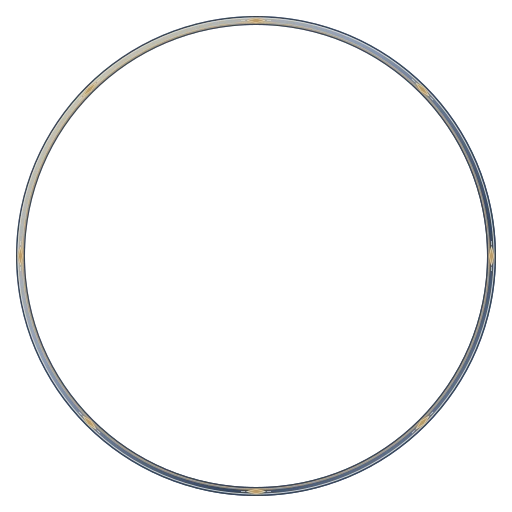
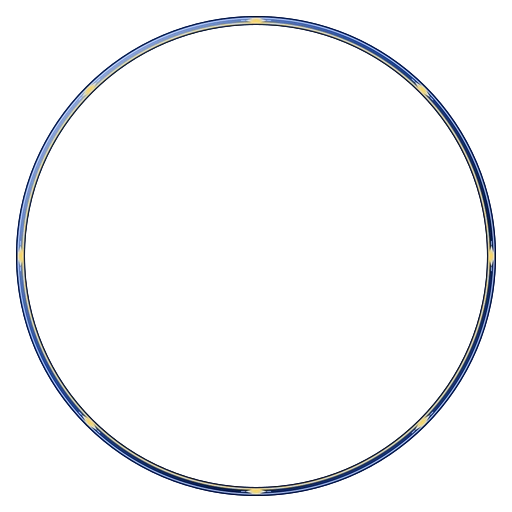
Add ornate title profile frames and richer arena rim colors

Changed region(s): [[0.0312, 0.0312, 0.9688, 0.9688]]

diff --git a/games/heroes-of-ether/public/shared/league-appearance.js b/games/heroes-of-ether/public/shared/league-appearance.js
@@ -123,10 +123,10 @@
     }),
   );
   const packFrames = [
-    ["visual", "#dbad4b", "#fff1c1", "#243c68", [0.490234,0.521484,0.350813]],
-    ["prism", "#95dafa", "#fcf4dd", "#253c89", [0.494141,0.525391,0.375227]],
-    ["glass", "#dbbfea", "#fff5ff", "#66578d", [0.496094,0.542969,0.356294]],
-    ["heroic", "#ecc35c", "#fff0bf", "#851f37", [0.491211,0.527344,0.346827]],
+    ["visual", "#f5b322", "#fff0a3", "#8e3010", [0.490234,0.521484,0.350813]],
+    ["prism", "#29a9f5", "#ddfaff", "#174d9f", [0.494141,0.525391,0.375227]],
+    ["glass", "#ad6ee9", "#f4dbff", "#582188", [0.496094,0.542969,0.356294]],
+    ["heroic", "#ffbe16", "#fff09a", "#9d102c", [0.491211,0.527344,0.346827]],
   ].map(([id, metal, light, dark, fit]) => Object.freeze({ ...interfaceTheme(id), metal, light, dark, fit, rank: 3 }));
   const variantFrames = Object.freeze([{"id":"canon_title_prince","baseId":"title_prince","name":"Принц","title":"Тонкий ободок","fit":[0.5,0.5,0.4521484375]},{"id":"canon_title_king","baseId":"title_king","name":"Король","title":"Тонкий ободок","fit":[0.5,0.5,0.4521484375]},{"id":"canon_title_emperor","baseId":"title_emperor","name":"Император","title":"Тонкий ободок","fit":[0.5,0.5,0.4521484375]},{"id":"canon_vip","baseId":"vip","name":"VIP","title":"Тонкий ободок","fit":[0.5,0.5,0.4521484375]},{"id":"canon_premium","baseId":"premium","name":"Premium","title":"Тонкий ободок","fit":[0.5,0.5,0.4521484375]},{"id":"canon_bronze","baseId":"bronze","name":"Бронзовая","title":"Тонкий ободок","fit":[0.5,0.5,0.4521484375]},{"id":"canon_silver","baseId":"silver","name":"Серебряная","title":"Тонкий ободок","fit":[0.5,0.5,0.4521484375]},{"id":"canon_gold","baseId":"gold","name":"Золотая","title":"Тонкий ободок","fit":[0.5,0.5,0.4521484375]},{"id":"canon_platinum","baseId":"platinum","name":"Платиновая","title":"Тонкий ободок","fit":[0.5,0.5,0.4521484375]},{"id":"canon_diamond","baseId":"diamond","name":"Бриллиантовая","title":"Тонкий ободок","fit":[0.5,0.5,0.4521484375]},{"id":"canon_champions","baseId":"champions","name":"Чемпионская","title":"Тонкий ободок","fit":[0.5,0.5,0.4521484375]}].map(Object.freeze));
   const variantsById = new Map(variantFrames.map(item => [item.id,item]));
@@ -137,6 +137,12 @@
     : slot === "arenaFrame" ? arenaVariants.get(baseFrame(id)) || id : id;
   const framesById = new Map([...frameThemes, ...rankFrames, ...packFrames, ...variantFrames].map((item) => [item.id, item]));
   const frameTheme = (id) => framesById.get(id);
+  // Profile ornaments have independent measured fits; arena rim geometry is unchanged.
+  const titleProfileFits = {"title_novice":[0.4960802520498726,0.5350580501666561,0.3615369592813202],"title_experienced":[0.4984100202013826,0.5294213618990071,0.3489242586986948],"title_expert":[0.49641071231311545,0.5239693433811239,0.35095856524427954],"title_sage":[0.4947862253890017,0.5175578148157163,0.34607622953487616],"title_master":[0.49566221112560566,0.5231587107258937,0.3346841128796016],"title_pro":[0.496427334693173,0.5198926838020498,0.3354978354978355],"title_prince":[0.49636518686513004,0.5231052472625249,0.3513654265533965],"title_king":[0.49561820955446556,0.5283429706013979,0.32614002538814574],"title_emperor":[0.4931919062966485,0.5306584799346615,0.3322429450248999],"title_boss":[0.49402483121063484,0.5250226946402605,0.32939491586108127]};
+  const titleProfileFrame = (id) => {
+    const base = baseFrame(id), fit = titleProfileFits[base];
+    return fit ? { fit, source: `assets/frames/titles-v4/512/${base.slice(6)}.webp?art=20261123-title-frames` } : null;
+  };
   const valid = (id, slot) =>
     id === "default" ||
     !!theme(id) ||
@@ -152,14 +158,14 @@
   const resolveFrame = (id) => (theme(id) || accountFrame(id) || rankFrame(id) || interfaceTheme(id) || variantFrame(id) ? id : "default");
   const source = (id, kind) =>
     kind === "frame" && !!(variantFrame(id) || rankFrame(id) || theme(id) || accountFrame(id))
-      ? `assets/frames/rims-v2/${id}.webp?art=20261123-interface-art`
+      ? `assets/frames/rims-v2/${id}.webp?art=20261123-title-frames`
         : interfaceTheme(id) && ["frame", "profile", "lobby"].includes(kind)
           ? `assets/interface-packs/${id}/${kind}.webp?art=${kind === "frame" ? "20261122c" : "20261122b"}`
           : theme(id) && ["lobby", "profile", "frame", "clan"].includes(kind)
             ? `assets/league-appearance/${id}-${kind}.svg?art=20261123-interface-art`
             : null;
   return {
-    variantFrames, variantFrame, baseFrame, frameForSlot,
+    titleProfileFrame, variantFrames, variantFrame, baseFrame, frameForSlot,
     themes,
     interfaceThemes,
     interfaceTheme,

diff --git a/games/heroes-of-ether/public/index.html b/games/heroes-of-ether/public/index.html
@@ -2,7 +2,7 @@
 <html lang="ru" class="game-booting">
   <head>
     <script src="shared/browser-abort-compat.js?v=20261123-interface-art"></script>
-    <script src="shared/art-revision.js?v=20261123-interface-art"></script>
+    <script src="shared/art-revision.js?v=20261123-title-frames"></script>
     <meta charset="utf-8" />
     <meta name="viewport" content="width=device-width, initial-scale=1, viewport-fit=cover" />
     <meta name="theme-color" content="#101321" />
@@ -651,7 +651,7 @@
     <script src="ui/progression/greatness-label.js?v=20261123-interface-art"></script>
     <script src="shared/skin-collection-preview.js?v=20261123-interface-art"></script>
     <script src="shared/player-identity.js?v=20261123-interface-art"></script>
-    <script src="shared/league-appearance.js?v=20261123-interface-art"></script>
+    <script src="shared/league-appearance.js?v=20261123-title-frames"></script>
     <script src="shared/lobby-menu-art.js?v=20261123-interface-art"></script>
     <script src="shared/interface-theme.js?v=20261123-interface-art"></script>
     <script src="shared/accessory-catalog.js?v=20261123-interface-art"></script>
@@ -685,7 +685,7 @@
     <script src="ui/shop/currency-purchase-dialog.js?v=20261123-interface-art"></script>
     <script src="shared/booster-cooldowns.js?v=20261123-interface-art"></script>
     <script src="ui/cosmetics/skin-and-wardrobe-dialogs.js?v=20261123-interface-art"></script>
-    <script src="ui/cosmetics/league-appearance.js?v=20261123-interface-art"></script>
+    <script src="ui/cosmetics/league-appearance.js?v=20261123-title-frames"></script>
     <script src="ui/lobby/sky-scene.js?v=20261123-interface-art"></script>
     <script src="shared/quick-slot-rules.js?v=20261123-interface-art"></script>
     <script src="ui/boosters/booster-tooltip.js?v=20261123-interface-art"></script>
@@ -723,7 +723,7 @@
     <script src="shared/arena-backgrounds.js?v=20261123-interface-art"></script>
     <script src="shared/projectile-renderer.js?v=20261123-interface-art"></script>
     <script src="shared/booster-effect-renderer.js?v=20261123-interface-art"></script>
-    <script src="arena/food-and-frame-renderer.js?v=20261123-interface-art"></script>
+    <script src="arena/food-and-frame-renderer.js?v=20261123-title-frames"></script>
     <script src="arena/body-renderer.js?v=20261123-interface-art"></script>
     <script src="arena/portrait-loader.js?v=20261123-interface-art"></script>
     <script src="ui/profile/online-presence.js?v=20261123-interface-art"></script>

diff --git a/games/heroes-of-ether/public/arena/food-and-frame-renderer.js b/games/heroes-of-ether/public/arena/food-and-frame-renderer.js
@@ -341,7 +341,7 @@
     ctx.stroke();
   }
   // Native circles reproduce the approved rims without asynchronous texture swaps.
-  const preparedRimColors = {"vip":["#a56a24","#dba64b","#f2d18a","#b77725"],"premium":["#655175","#a07abb","#d7b7df","#c5a564"],"bronze":["#714c36","#b77d50","#d8b190","#8c5838"],"silver":["#5d6c7a","#a9bac7","#dde5e8","#82929d"],"gold":["#8b7145","#c9ad74","#ead7ab","#b6975d"],"platinum":["#496c70","#9fbfb9","#d6e5da","#81a5a4"],"diamond":["#4c819c","#99cbdc","#d4ebef","#81adc4"],"champions":["#683c40","#9d5360","#ca98a0","#c3a16b"],"title_novice":["#596675","#9dabb9","#d3dce1","#8294a7"],"title_experienced":["#355b83","#89add0","#cfdfec","#86b5d4"],"title_expert":["#815b30","#bd9454","#e7cca1","#799bad"],"title_master":["#7d453a","#c18b4d","#e9caa0","#af6371"],"title_sage":["#2c6675","#84c0cb","#d3e6e8","#79a6be"],"title_pro":["#31694e","#8aac73","#d9dfae","#bba16c"],"title_prince":["#355887","#8ca8cf","#dfd7b8","#c3a06c"],"title_king":["#793741","#ad6670","#e2c7a7","#c4a164"],"title_emperor":["#324667","#8b9dbd","#e5d6ad","#bc9b67"],"title_boss":["#6e3d70","#ac7ab0","#e2c4df","#c5a36b"]};
+  const preparedRimColors = {"vip":["#873500","#ffb300","#fff09b","#ffcf32"],"premium":["#300054","#9c27f2","#e8b8ff","#ffd15a"],"bronze":["#632807","#cb691e","#ffc27a","#924114"],"silver":["#294866","#a8c8e9","#f2f8ff","#718ca8"],"gold":["#7d3d00","#f9b415","#ffeb7c","#d88500"],"platinum":["#005a57","#09c4b3","#b6fff1","#e0f7ff"],"diamond":["#034890","#19b9ff","#d0f6ff","#4a80ef"],"champions":["#560217","#c30f2f","#ffcc51","#ffdf70"],"title_novice":["#263d53","#698ca8","#cee5f6","#4b6b86"],"title_experienced":["#143f87","#2377d6","#acdaff","#bcd9ef"],"title_expert":["#784400","#e5a623","#ffdf7c","#2286dc"],"title_sage":["#004d62","#00a8bd","#b5f8ff","#e9d283"],"title_master":["#721627","#d53750","#ffc49e","#ffbc40"],"title_pro":["#004a25","#0eae63","#b2f0b1","#f5c34c"],"title_prince":["#071b78","#235ce0","#b6ceff","#ffd057"],"title_king":["#670414","#d81032","#ff9b85","#ffcd45"],"title_emperor":["#081b4e","#244ba3","#c5d9ff","#ffd65b"],"title_boss":["#3c005e","#a516dd","#efafff","#ffce51"]};
   function preparedRim(ctx, id, radius) {
     const colors = preparedRimColors[id.replace(/^canon_/, "")];
     if (!colors) return false;

diff --git a/games/heroes-of-ether/public/shared/art-revision.js b/games/heroes-of-ether/public/shared/art-revision.js
@@ -7,10 +7,11 @@ window.KillexArtRevision = Object.freeze({
     const parts = value.split("#"), base = parts[0]
       .replace(/([?&])art=[^&]*(&?)/g, (_, a, b) => b ? a : "").replace(/[?&]$/, "");
     const prepared = preparedInterfaceAssets.has(base.split("?")[0].replace(/^\//,""));
+    const revisedFrame = /assets\/frames\/(?:rims-v2|titles-v4)\//.test(base);
     const selectedPortrait = /assets\/skins\/(?:premium-v2\/\d+\/premium-2|collections-v1\/\d+\/(?:desert-cat|grove-faun))\.webp/.test(base);
     const revised = /assets\/achievements\/illustrated-v2\/(?!easter_)/.test(base)
       || /assets\/skins\/(?:transparent-v2\/\d+\/vip-[13]|premium-v2\/\d+\/premium-2)\.webp/.test(base);
-    return base + (base.includes("?") ? "&" : "?") + "art=" + (prepared ? "20261123-interface-art" : selectedPortrait ? "20261123-selected-portraits" : revised ? "20261122c" : "20261122b")
+    return base + (base.includes("?") ? "&" : "?") + "art=" + (revisedFrame ? "20261123-title-frames" : prepared ? "20261123-interface-art" : selectedPortrait ? "20261123-selected-portraits" : revised ? "20261122c" : "20261122b")
       + (parts.length > 1 ? "#" + parts.slice(1).join("#") : "");
   },
 });

diff --git a/games/heroes-of-ether/public/ui/cosmetics/league-appearance.js b/games/heroes-of-ether/public/ui/cosmetics/league-appearance.js
@@ -268,7 +268,8 @@
   function paintFrame(host, id, account) {
     if (!host) return;
     let image = host.querySelector(":scope > .league-avatar-frame");
-    const source = catalog.interfaceTheme(id) ? catalog.source(id, "frame") : null;
+    const titleFrame = catalog.titleProfileFrame(id);
+    const source = titleFrame?.source || (catalog.interfaceTheme(id) ? catalog.source(id, "frame") : null);
     if (!source) {
       image?.remove();
       const resolved = catalog.resolveFrame(id, account);
@@ -283,7 +284,7 @@
       image.alt = "";
       host.append(image);
     }
-    const fit = catalog.frameTheme(id)?.fit;
+    const fit = titleFrame?.fit || catalog.frameTheme(id)?.fit;
     for (const property of ["top", "left", "right", "bottom", "width", "height"])
       image.style.removeProperty(property);
     if (fit) {
